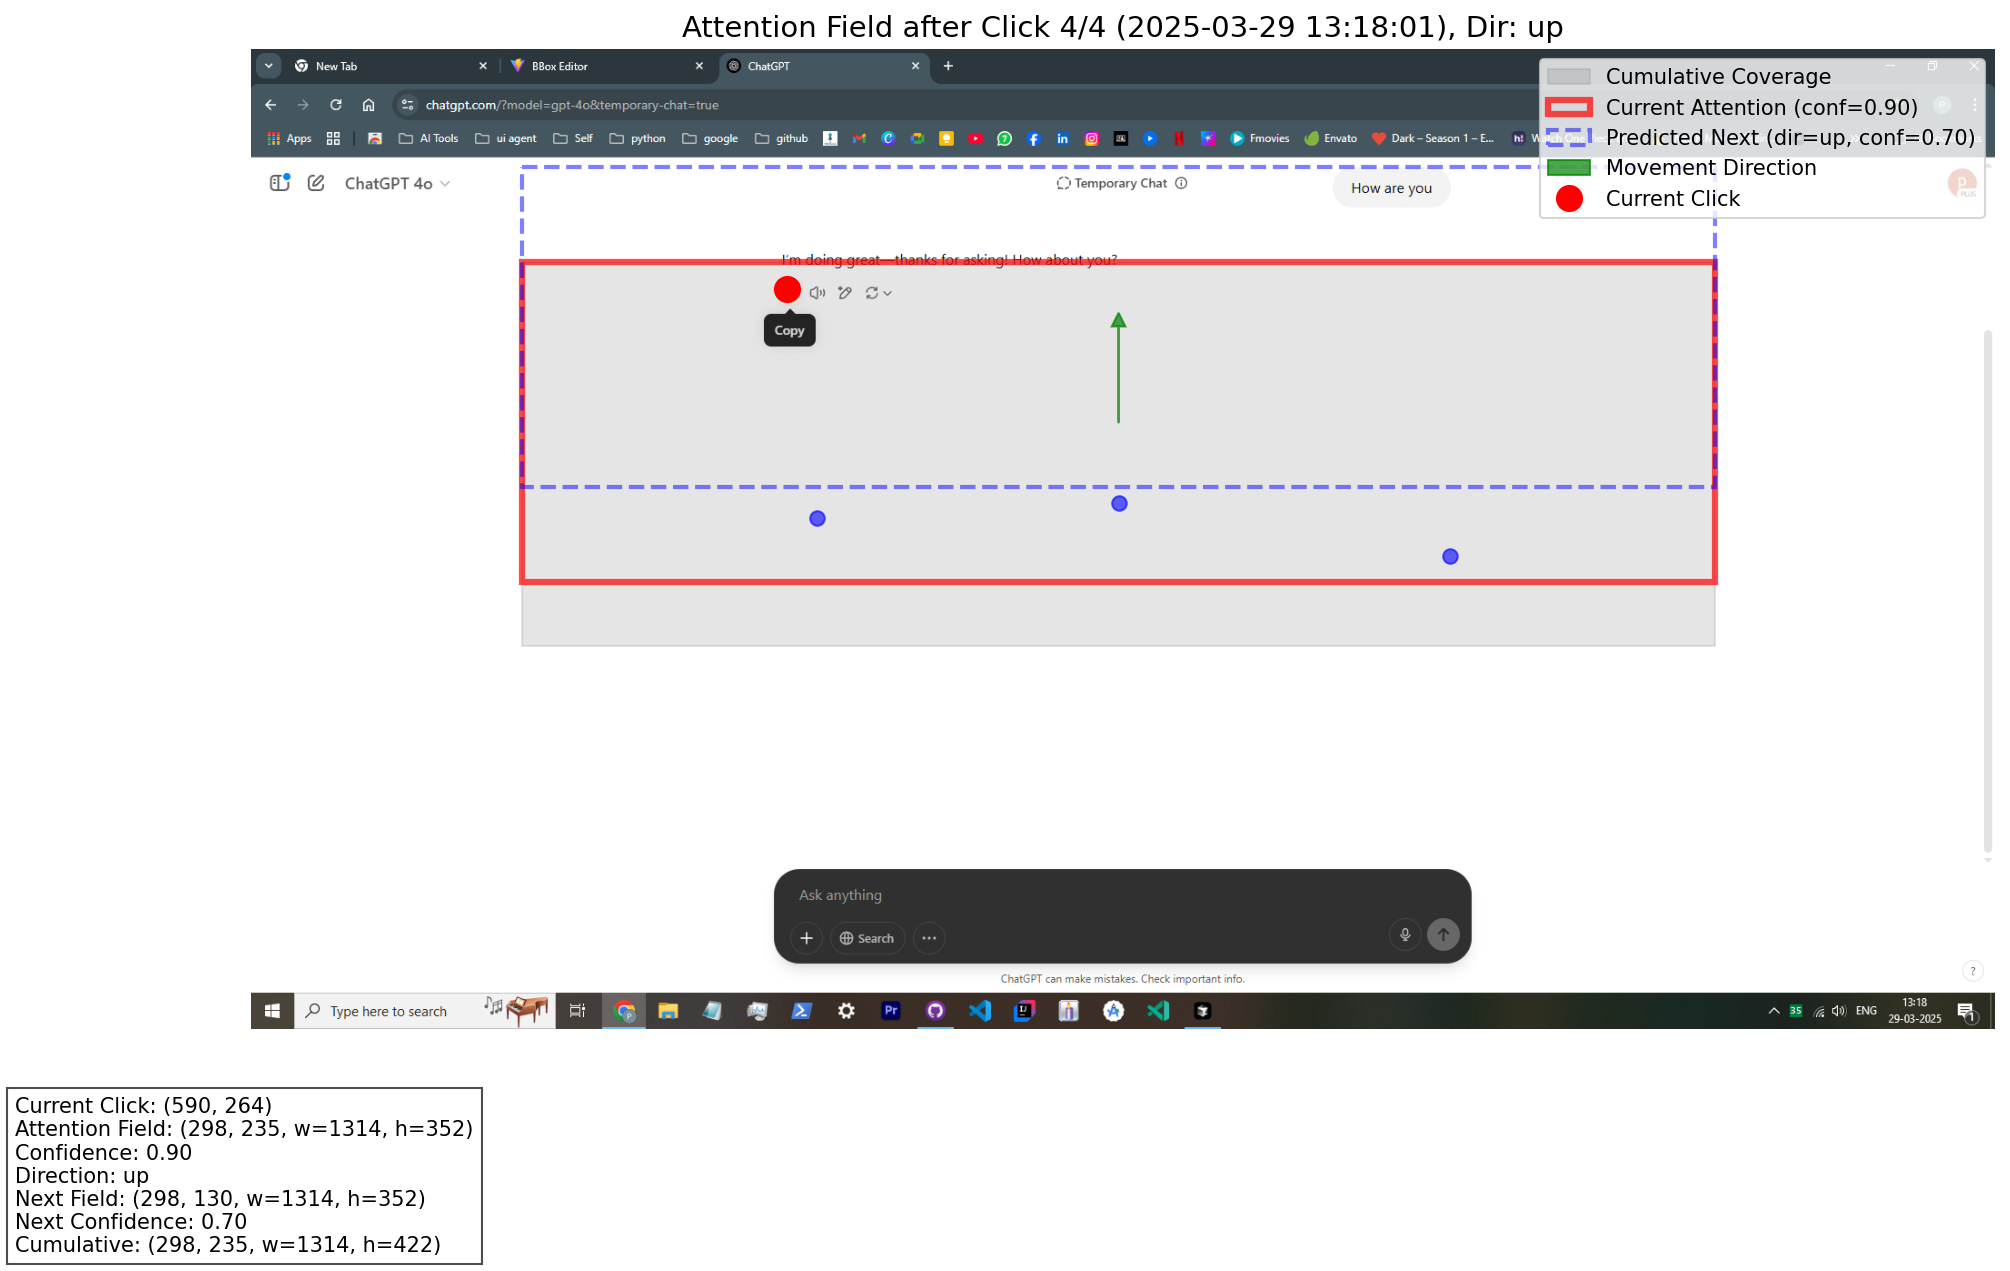
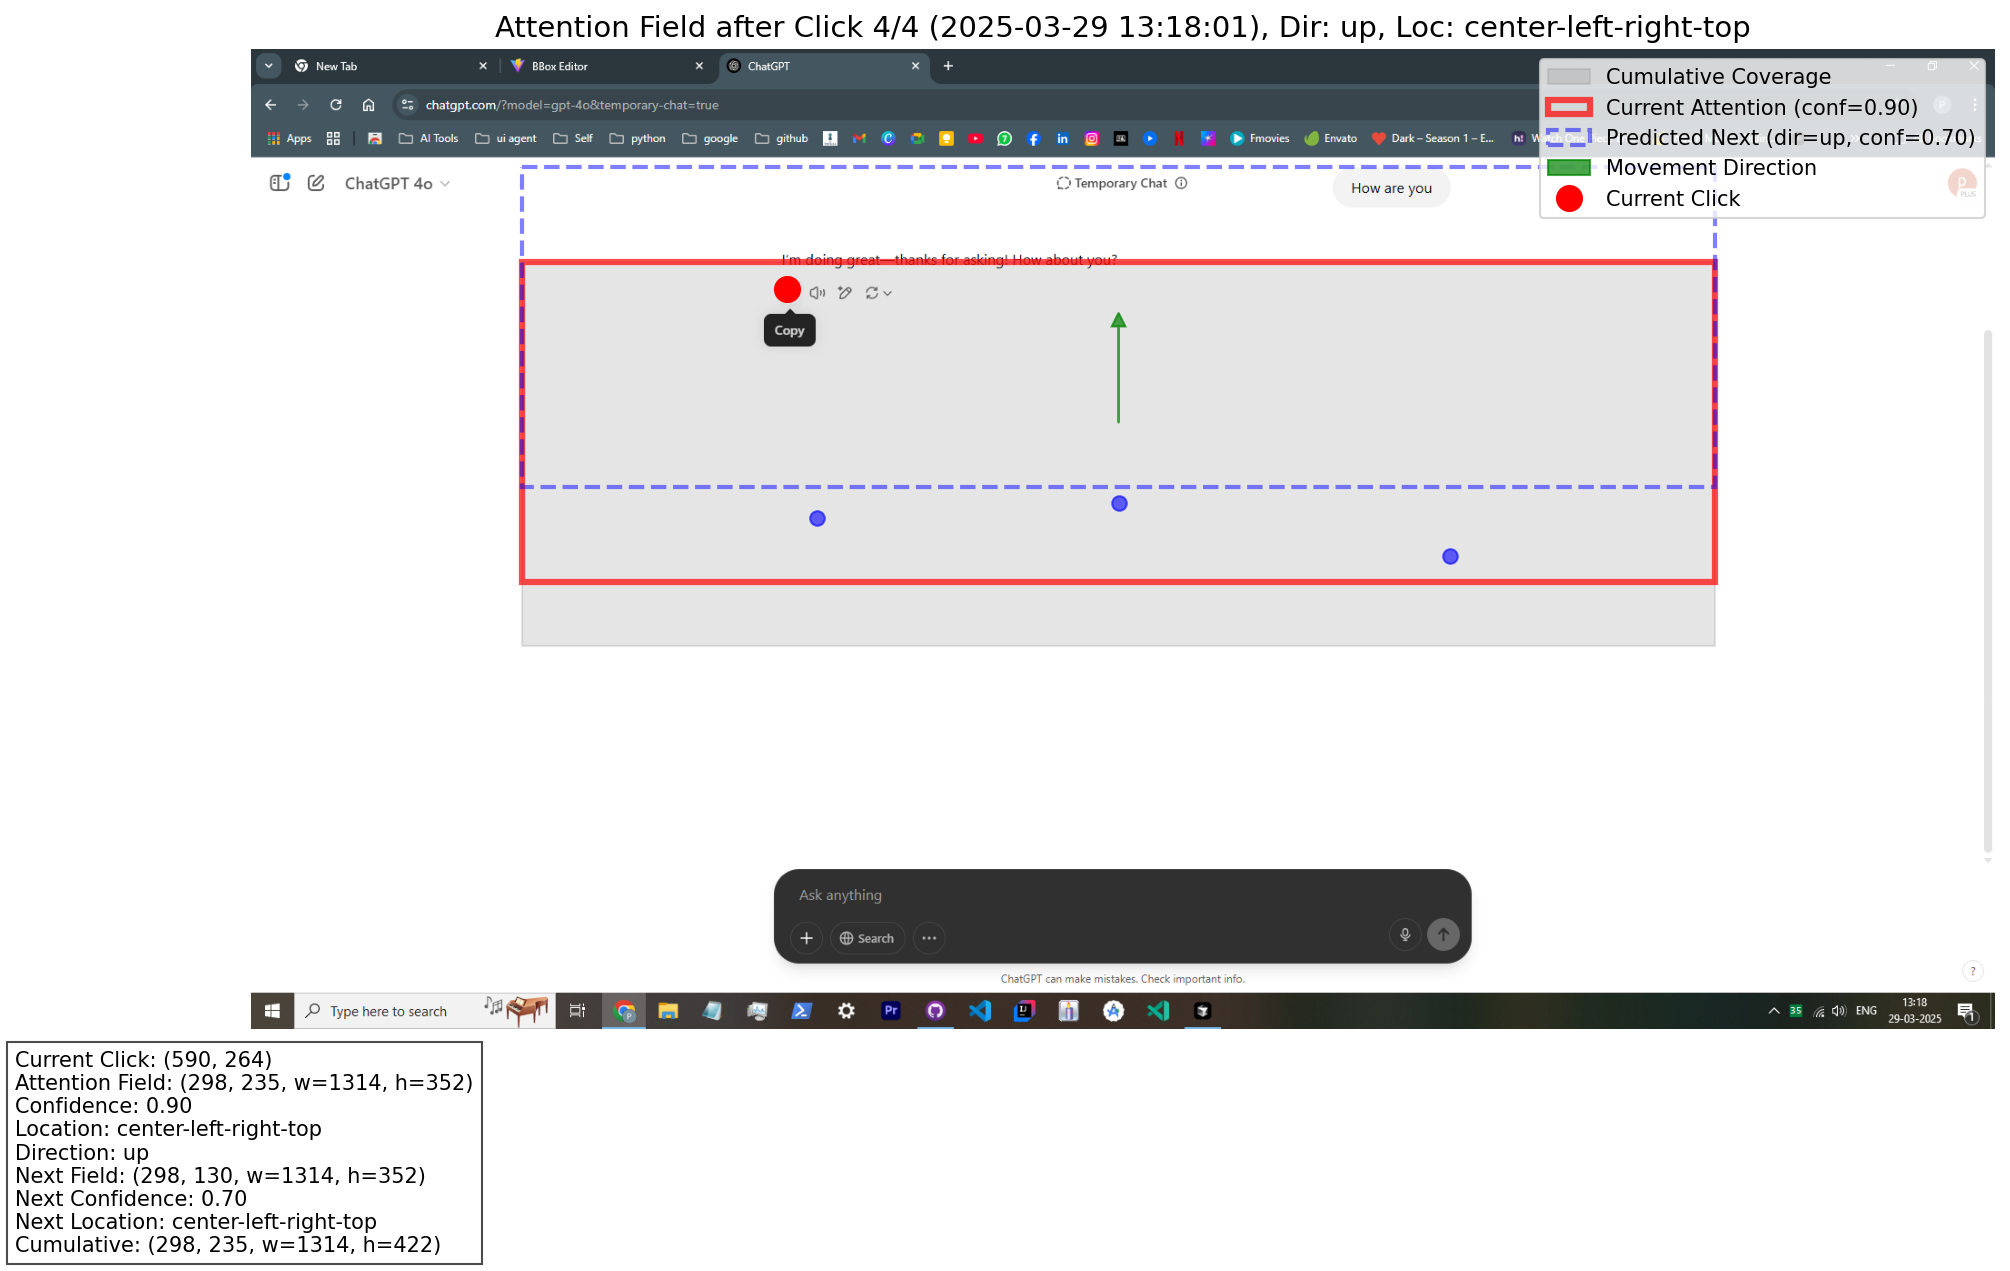
update

Changed region(s): [[0.0, 0.8285, 0.2468, 0.9819], [0.2468, 0.0, 0.8637, 0.0307]]

diff --git a/karna-python-backend/inference/omniparser/attention_controller.py b/karna-python-backend/inference/omniparser/attention_controller.py
@@ -1,5 +1,5 @@
 import logging
-from typing import List, Tuple, Dict, Optional
+from typing import List, Tuple, Dict, Optional, Set
 from dataclasses import dataclass
 import numpy as np
 import math
@@ -7,6 +7,7 @@ import json
 import os
 from datetime import datetime
 from pydantic import BaseModel
+from enum import Enum, auto
 from services.screen_capture_service import ScreenshotEvent
 from inference.omniparser.util.omniparser import OmniparserResult
 from inference.omniparser.omni_helper import OmniParserResultModel
@@ -21,6 +22,18 @@ renderBBox = {
     "height": 919
 }
 
+# Enum for viewport position classification
+class ViewportPosition(Enum):
+    TOP = "top"
+    BOTTOM = "bottom"
+    LEFT = "left"
+    RIGHT = "right"
+    CENTER = "center"
+    TOP_LEFT = "top_left"
+    TOP_RIGHT = "top_right"
+    BOTTOM_LEFT = "bottom_left"
+    BOTTOM_RIGHT = "bottom_right"
+
 @dataclass
 class AttentionField:
     """Represents a visual attention field with a bounding box"""
@@ -30,6 +43,11 @@ class AttentionField:
     height: int  # Height of the attention field
     confidence: float = 1.0  # Confidence score for this attention field
     direction: Optional[str] = None  # Movement direction: 'up', 'down', 'left', 'right'
+    semantic_location: Set[ViewportPosition] = None  # Semantic location relative to viewport (hybrid approach)
+    
+    def __post_init__(self):
+        if self.semantic_location is None:
+            self.semantic_location = set()
     
     @property
     def center(self) -> Tuple[int, int]:
@@ -50,6 +68,103 @@ class AttentionField:
         """Check if the attention field contains a point"""
         return (self.x <= x <= self.x + self.width and
                 self.y <= y <= self.y + self.height)
+
+    def set_semantic_location(self, viewport: 'AttentionField', overlap_threshold: float = 0.2) -> None:
+        """
+        Set the semantic location of this attention field relative to the viewport using a hybrid approach.
+        First determines primary location based on center point, then adds additional locations based on overlap.
+        
+        Args:
+            viewport: The viewport AttentionField to compare against
+            overlap_threshold: Minimum overlap ratio to consider for secondary classification (0.0-1.0)
+        """
+        self.semantic_location = set()
+        
+        # Get centers
+        cx, cy = self.center
+        vx1, vy1, vx2, vy2 = viewport.xyxy
+        vw, vh = viewport.width, viewport.height
+        v_cx, v_cy = viewport.center
+        
+        # 1. Primary classification based on center point
+        # Horizontal classification (left, center, right)
+        h_third = vw / 3
+        v_third = vh / 3
+        
+        # Calculate regions
+        left_region = vx1 + h_third
+        right_region = vx2 - h_third
+        top_region = vy1 + v_third
+        bottom_region = vy2 - v_third
+        
+        # Primary horizontal classification
+        if cx < left_region:
+            self.semantic_location.add(ViewportPosition.LEFT)
+        elif cx > right_region:
+            self.semantic_location.add(ViewportPosition.RIGHT)
+        else:
+            self.semantic_location.add(ViewportPosition.CENTER)
+            
+        # Primary vertical classification
+        if cy < top_region:
+            self.semantic_location.add(ViewportPosition.TOP)
+        elif cy > bottom_region:
+            self.semantic_location.add(ViewportPosition.BOTTOM)
+        else:
+            # Only add CENTER once (may have been added in horizontal classification)
+            if ViewportPosition.CENTER not in self.semantic_location:
+                self.semantic_location.add(ViewportPosition.CENTER)
+        
+        # Create corner classifications based on combined horizontal and vertical
+        if ViewportPosition.TOP in self.semantic_location:
+            if ViewportPosition.LEFT in self.semantic_location:
+                self.semantic_location.add(ViewportPosition.TOP_LEFT)
+            elif ViewportPosition.RIGHT in self.semantic_location:
+                self.semantic_location.add(ViewportPosition.TOP_RIGHT)
+                
+        if ViewportPosition.BOTTOM in self.semantic_location:
+            if ViewportPosition.LEFT in self.semantic_location:
+                self.semantic_location.add(ViewportPosition.BOTTOM_LEFT)
+            elif ViewportPosition.RIGHT in self.semantic_location:
+                self.semantic_location.add(ViewportPosition.BOTTOM_RIGHT)
+        
+        # 2. Secondary classification based on significant overlap
+        # Calculate attention field boundaries
+        ax1, ay1, ax2, ay2 = self.xyxy
+        
+        # Check for significant extension into adjacent regions
+        # Horizontal extensions
+        left_extent = max(0, left_region - ax1) / self.width
+        right_extent = max(0, ax2 - right_region) / self.width
+        
+        # Vertical extensions
+        top_extent = max(0, top_region - ay1) / self.height
+        bottom_extent = max(0, ay2 - bottom_region) / self.height
+        
+        # Add secondary classifications based on overlap threshold
+        if left_extent > overlap_threshold and ViewportPosition.LEFT not in self.semantic_location:
+            self.semantic_location.add(ViewportPosition.LEFT)
+            
+        if right_extent > overlap_threshold and ViewportPosition.RIGHT not in self.semantic_location:
+            self.semantic_location.add(ViewportPosition.RIGHT)
+            
+        if top_extent > overlap_threshold and ViewportPosition.TOP not in self.semantic_location:
+            self.semantic_location.add(ViewportPosition.TOP)
+            
+        if bottom_extent > overlap_threshold and ViewportPosition.BOTTOM not in self.semantic_location:
+            self.semantic_location.add(ViewportPosition.BOTTOM)
+    
+    def get_semantic_location_str(self) -> str:
+        """Get a string representation of the semantic location"""
+        if not self.semantic_location:
+            return "undefined"
+            
+        # Filter out corner positions for cleaner output
+        corner_positions = {ViewportPosition.TOP_LEFT, ViewportPosition.TOP_RIGHT, 
+                           ViewportPosition.BOTTOM_LEFT, ViewportPosition.BOTTOM_RIGHT}
+        positions = [pos.value for pos in self.semantic_location if pos not in corner_positions]
+        
+        return "-".join(sorted(positions))
 
 # Pydantic model for configuration
 class AttentionConfig(BaseModel):
@@ -592,10 +707,14 @@ class AttentionFieldController:
                 confidence=confidence,
                 direction=direction
             )
+            
+            # Set semantic location relative to viewport
+            self.current_attention_field.set_semantic_location(self.viewport)
 
             logger.info(f"Updated attention field: {self.current_attention_field.bbox}, "
                       f"center: {self.current_attention_field.center}, "
-                      f"direction: {direction}, confidence: {confidence:.1f}")
+                      f"direction: {direction}, confidence: {confidence:.1f}, "
+                      f"semantic location: {self.current_attention_field.get_semantic_location_str()}")
     
     def get_current_attention_field(self) -> AttentionField:
         """
@@ -674,7 +793,11 @@ class AttentionFieldController:
             direction=direction
         )
         
-        logger.info(f"Predicted next attention field: {next_field.bbox}, direction: {direction}, confidence: 0.7")
+        # Set semantic location for the predicted field
+        next_field.set_semantic_location(self.viewport)
+        
+        logger.info(f"Predicted next attention field: {next_field.bbox}, direction: {direction}, "
+                  f"confidence: 0.7, semantic location: {next_field.get_semantic_location_str()}")
         return next_field
     
     def get_attention_context(self) -> Dict:
@@ -690,16 +813,22 @@ class AttentionFieldController:
         next_field = self.predict_next_attention_field()
         cumulative_bbox = self.cumulative_coverage_bbox
         
+        # Set semantic location for next field if it exists
+        if next_field:
+            next_field.set_semantic_location(self.viewport)
+        
         context = {
             "current_attention": {
                 "bbox": current.bbox,
                 "confidence": current.confidence,
-                "direction": current.direction
+                "direction": current.direction,
+                "semantic_location": current.get_semantic_location_str()
             },
             "predicted_next_attention": {
                 "bbox": next_field.bbox if next_field else None,
                 "confidence": next_field.confidence if next_field else 0.0,
-                "direction": next_field.direction if next_field else None
+                "direction": next_field.direction if next_field else None,
+                "semantic_location": next_field.get_semantic_location_str() if next_field else None
             },
             "cumulative_coverage": {
                 "bbox": cumulative_bbox # Will be None if not initialized

diff --git a/karna-python-backend/inference/omniparser/test_attention_controller.py b/karna-python-backend/inference/omniparser/test_attention_controller.py
@@ -46,6 +46,7 @@ KEY CONCEPTS:
 • Center Point: The focal point of the attention field (calculated from corner + dimensions/2)
 • Confidence Score: How certain the controller is about this attention area (0-1 scale)
 • Movement Direction: The inferred direction based on user's click patterns (UP/DOWN/LEFT/RIGHT)
+• Semantic Location: Where the attention is located relative to the viewport (e.g., "top-left", "center")
 
 INTERPRETING CONSOLE OUTPUT:
 -------------------------
@@ -63,6 +64,7 @@ For each mouse click event, you'll see:
   • Dimensions: width × height pixels
   • Center Point: (center_x, center_y)
   • Confidence Score: 0.XX / 1.00
+  • Semantic Location: position within viewport (e.g., top-left, center-right)
   Details about where the system believes user attention is currently focused
 
 🔮 PREDICTED NEXT ATTENTION:
@@ -71,6 +73,7 @@ For each mouse click event, you'll see:
   • Dimensions: width × height pixels
   • Center Point: (center_x, center_y)
   • Prediction Confidence: 0.XX / 1.00
+  • Semantic Location: predicted position within viewport
   The system's prediction about where attention will move next
 
 🗺 CUMULATIVE COVERAGE:
@@ -95,6 +98,12 @@ CONFIDENCE SCORES:
 • 0.70-1.00: High confidence (multiple consistent clicks)
 • 0.40-0.70: Medium confidence (limited click history)
 • <0.40: Low confidence (cold start or inconsistent clicks)
+
+SEMANTIC LOCATIONS:
+---------------
+• "top", "bottom", "left", "right", "center" - Basic positions
+• Combined positions like "top-left", "bottom-center"
+• Multiple regions when attention field spans boundaries
 
 The combination of detailed console output and saved visualization images provides
 a complete picture of how the attention tracking system works in real-world scenarios.
@@ -215,6 +224,7 @@ def print_attention_info(event_num: int, event: ScreenshotEvent,
         center_x, center_y = current_field.center
         print(f"  • Center Point: ({center_x}, {center_y})")
         print(f"  • Confidence Score: {current_field.confidence:.2f} / 1.00")
+        print(f"  • Semantic Location: {current_field.get_semantic_location_str()}")
     else:
         print("  • Not available")
 
@@ -227,6 +237,7 @@ def print_attention_info(event_num: int, event: ScreenshotEvent,
         next_center_x, next_center_y = next_field.center
         print(f"  • Center Point: ({next_center_x}, {next_center_y})")
         print(f"  • Prediction Confidence: {next_field.confidence:.2f} / 1.00")
+        print(f"  • Semantic Location: {next_field.get_semantic_location_str()}")
     else:
         print("  • Not available yet") # E.g., need more clicks or no direction inferred
 
@@ -357,7 +368,8 @@ def visualize_attention_fields(events: List[ScreenshotEvent]) -> None:
             # Add title and legend
             event_time = event.timestamp.strftime('%Y-%m-%d %H:%M:%S')
             direction_info = f", Dir: {current_field.direction}" if current_field and current_field.direction else ""
-            plt.title(f"Attention Field after Click {i+1}/{len(events)} ({event_time}){direction_info}", fontsize=14)
+            location_info = f", Loc: {current_field.get_semantic_location_str()}" if current_field else ""
+            plt.title(f"Attention Field after Click {i+1}/{len(events)} ({event_time}){direction_info}{location_info}", fontsize=14)
             plt.legend(loc='upper right', fontsize=10)
             plt.axis('off') # Hide axes ticks/labels
 
@@ -366,7 +378,8 @@ def visualize_attention_fields(events: List[ScreenshotEvent]) -> None:
                 attention_info = [
                     f"Current Click: ({event.mouse_x}, {event.mouse_y})",
                     f"Attention Field: ({current_field.x}, {current_field.y}, w={current_field.width}, h={current_field.height})",
-                    f"Confidence: {current_field.confidence:.2f}"
+                    f"Confidence: {current_field.confidence:.2f}",
+                    f"Location: {current_field.get_semantic_location_str()}"
                 ]
                 if current_field.direction:
                     attention_info.append(f"Direction: {current_field.direction}")
@@ -374,7 +387,8 @@ def visualize_attention_fields(events: List[ScreenshotEvent]) -> None:
                 if next_field:
                     attention_info.extend([
                         f"Next Field: ({next_field.x}, {next_field.y}, w={next_field.width}, h={next_field.height})",
-                        f"Next Confidence: {next_field.confidence:.2f}"
+                        f"Next Confidence: {next_field.confidence:.2f}",
+                        f"Next Location: {next_field.get_semantic_location_str()}"
                     ])
                 if cumulative_bbox:
                     cx, cy, cw, ch = cumulative_bbox
